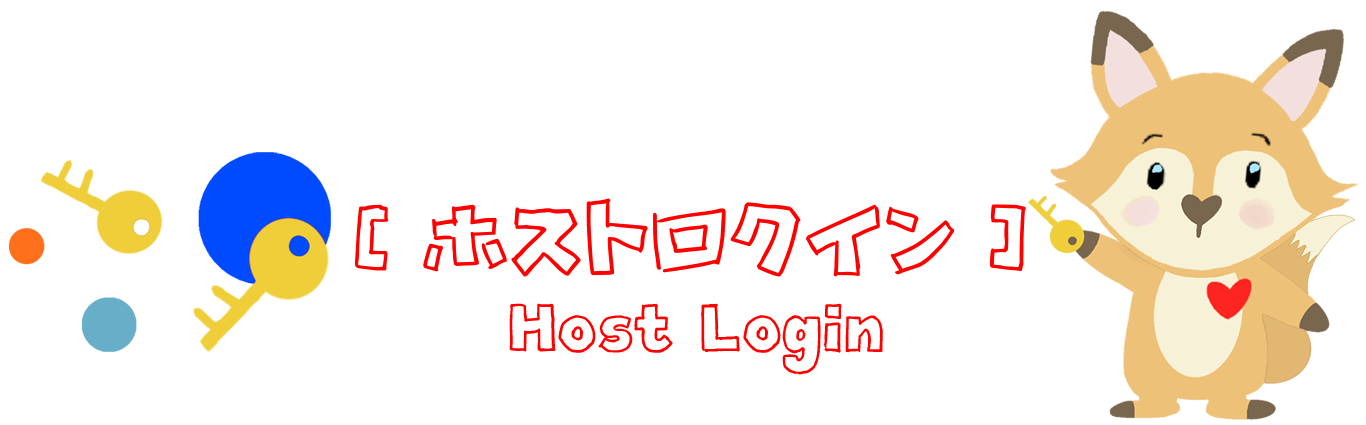
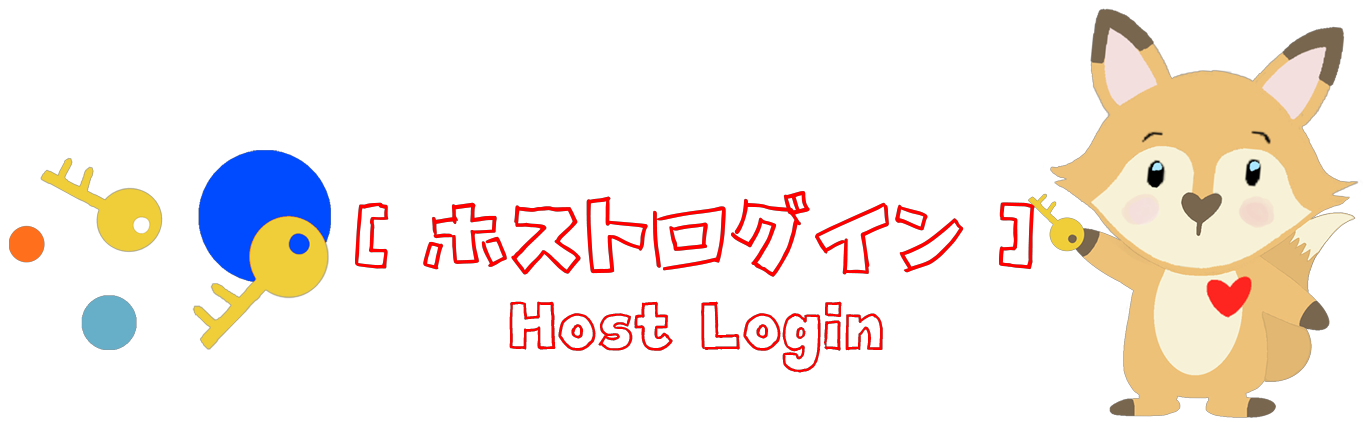
ログインページのタイトルを修正した、イベントの詳細ページの詳細ボックスを修正した

diff --git a/css/event_Content.css b/css/event_Content.css
@@ -55,7 +55,7 @@
     /* margin-left: -150px; */
 }
 
-#event_InfoTitle{
+.event_InfoTitle{
     display: grid;
     margin-right: 60px;
     margin-left: 35px;
@@ -65,7 +65,7 @@
     margin: 20px 30px;
 }
 
-#event_SmallContent{
+.event_SmallContent{
     display: grid;
     width: 500px;
 }
@@ -93,10 +93,20 @@
     text-decoration: none;
 }
 
-#eventInfo,
-#eventDetail{
+#detailBox{
+   display: flex;
+}
+
+#eventInfo{
     word-break: break-all;
 }
+
+#eventDetail{
+    word-break: break-all;
+    margin: 0px 0px 0px 80px;
+    width: 450px;
+}
+
 
 #submitBtn{
     background-color:orange;

diff --git a/event_Content.php b/event_Content.php
@@ -75,28 +75,36 @@ if ($eventdata['STATUS'] == "終了") {
     <section id="event_BigDetails">
 
         <div id="event_Box1">
-            <div id="event_InfoTitle">
+            <div class="event_InfoTitle">
                 <p class="EV_Small_Title">イベント名：</p>
                 <p class="EV_Small_Title">活動テーマ：</p>
                 <p class="EV_Small_Title">活動内容：</p>
                 <p class="EV_Small_Title">日時：</p>
                 <p class="EV_Small_Title">平均活動時間/分：</p>
                 <p class="EV_Small_Title">活動場所：</p>
-                <p class="EV_Small_Title">活動内容：</p>
-                <p class="EV_Small_Title">募集詳細：</p>
+                
             </div>
 
 
-            <div id="event_SmallContent">
+            <div class="event_SmallContent">
                 <p id="eventName"><?= $eventdata["EVENT_NAME"]; ?></p>
                 <p id="eventTheme"><?= $eventdata["THEME"]; ?></p>
                 <p id="eventInfo"><?= nl2br($eventdata["NOTE"]); ?></p>
                 <p id="eventTime"><?= $eventdata["SCHEDULE"]; ?></p>
                 <p id="eventHour"><?= $eventdata["HOUR"]; ?>分</p>
                 <p id="eventPlace"><?= $eventdata["ADDRESS"]; ?></p>
-                <!-- Detaleはない場合があるためIFで判定する必要がある -->
+            </div>
+        </div>
+
+        <div id="detailBox">
+            <div class="event_InfoTitle"> 
+                <p class="EV_Small_Title">募集詳細：</p>
+            </div>
+        <!-- Detailはない場合があるためIFで判定する必要がある -->
+            <div class="event_SmallContent">
                 <p id="eventDetail"><?= nl2br($eventdata["DETAIL"]); ?></p>
             </div>
+        
         </div>
 
         <div id="event_Box2" <?php if ($buttonhidden) {

diff --git a/userpage_AfterLogin.php b/userpage_AfterLogin.php
@@ -8,8 +8,9 @@ $userid = $_SESSION["id"];
 // IDが入ってたら、TakeUserData,TakePostData,TakeEventDataファンクションを実行してデータを取得する
 if (isset($userid)) {
     $userdata = TakeUserData($userid);
-    $postdata = TakePostData($userid);
+    $postdata = TakePostEvent($userid);
     $eventdata = TakeEventData($userid);
+
 } else {
     // header('Location:/login_page_User.php');
     echo "no";
@@ -114,10 +115,10 @@ echo "</pre>";
                                 </div>
 
                                 <div class="hidden-content-right">
-                                    <h3>イベント名：</h3>
-                                    <p>日時：</p>
-                                    <p>場所：</p>
-                                    <p>活動内容：</p>
+                                    <h3>イベント名：　<?= $postdatas['EVENT_NAME'] ?></h3>
+                                    <p>日時：　<?= $postdatas['SCHEDULE'] ?></p>
+                                    <p>場所：　<?= $postdatas['ADDRESS'] ?></p>
+                                    <p>活動内容：　<?= $postdatas['NOTE'] ?></p>
                                     <a href="hostpage_ViewOnly.php?id=<?= $postdatas['OWNER_ID'] ?>">イベントのホストページへ</a>
                                 </div>
 
